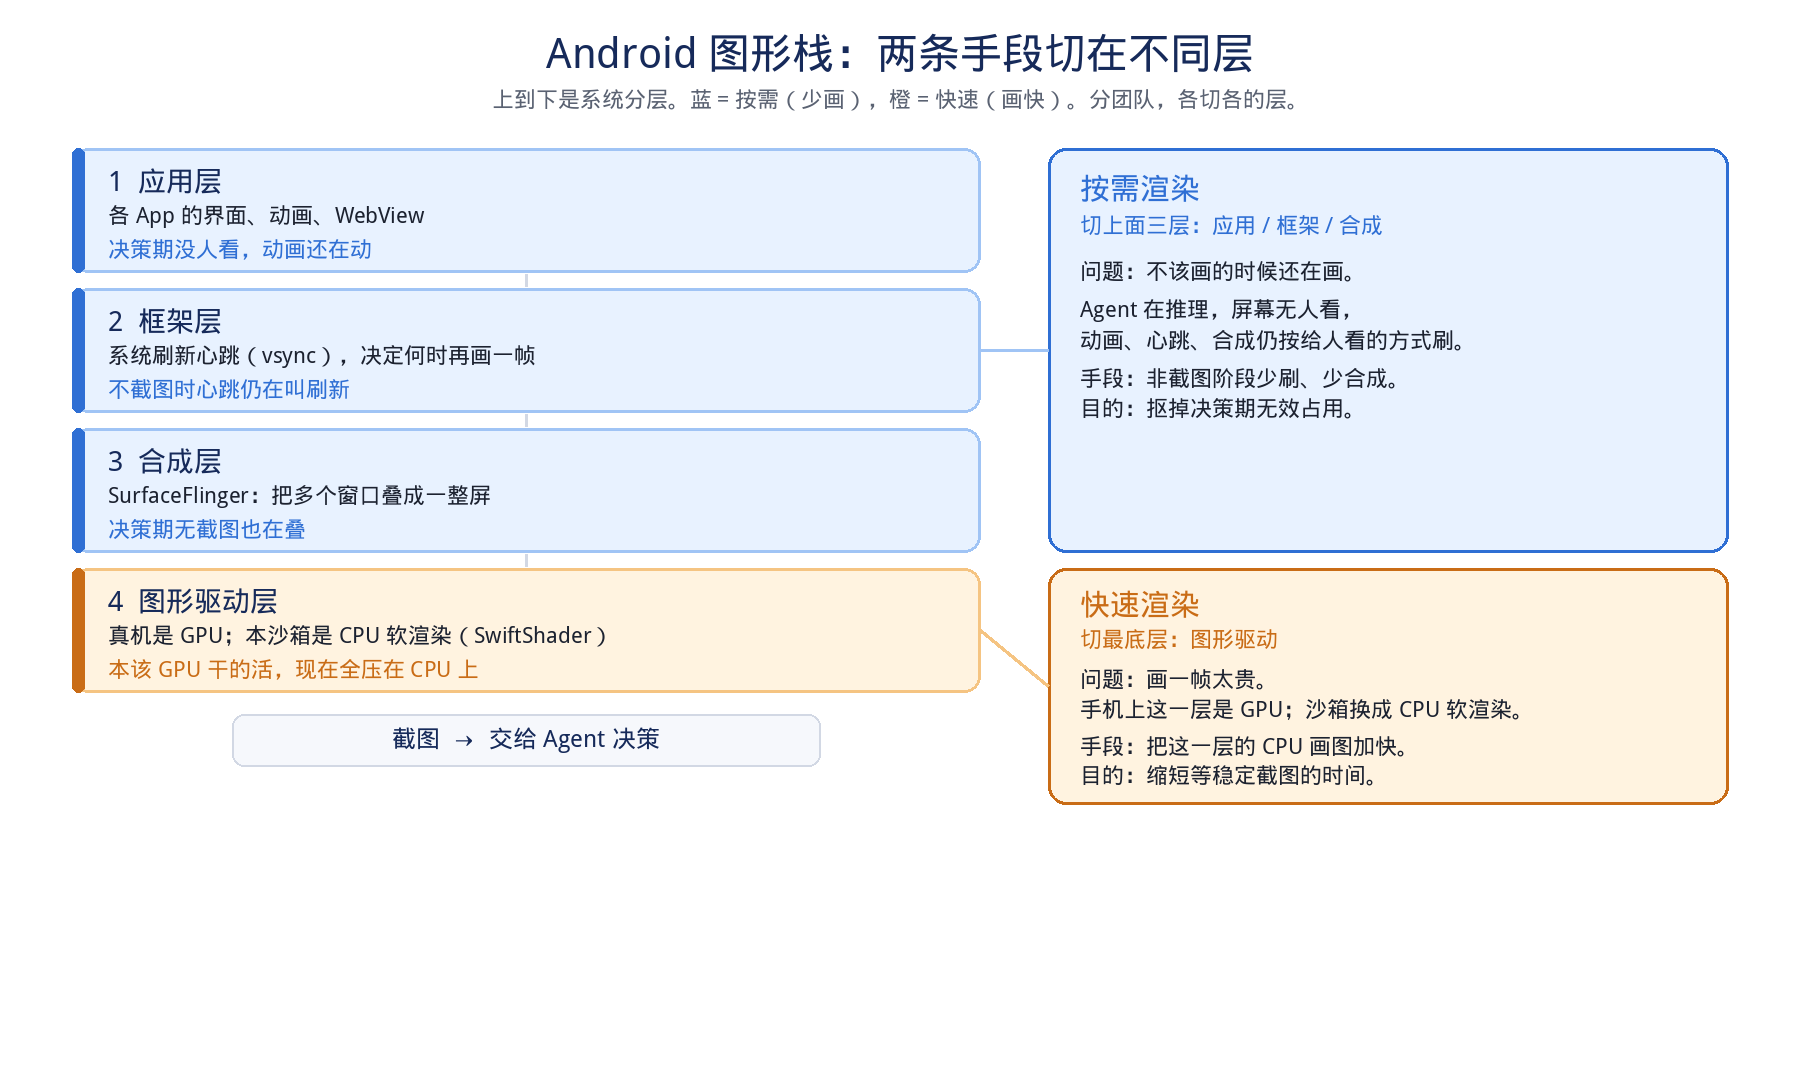
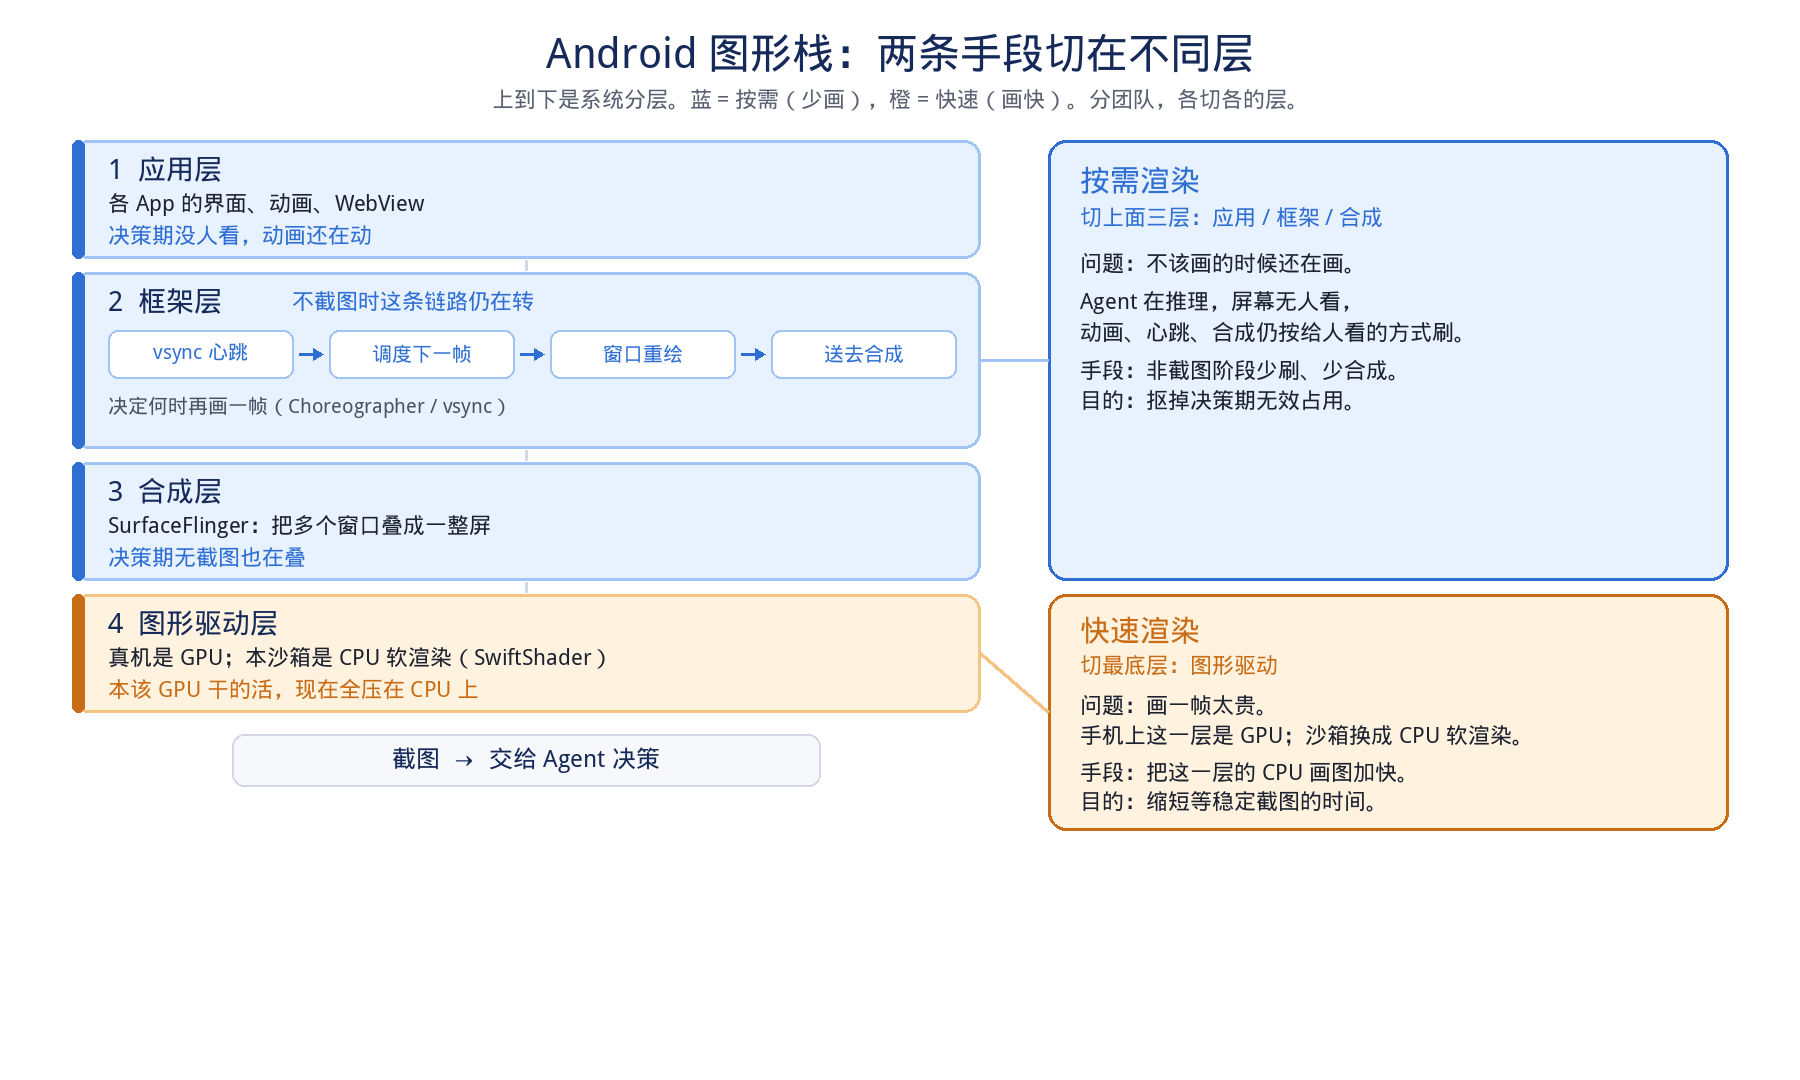
docs: add vsync flowchart inside the framework layer card
Autonomously-by: Cursor-Grok:4.6

Changed region(s): [[0.0311, 0.1222, 0.9644, 0.7944], [0.5289, 0.1222, 0.9644, 0.3972]]

diff --git a/docs/assets/gen_android_cpu_render_stack.py b/docs/assets/gen_android_cpu_render_stack.py
@@ -46,6 +46,28 @@ def draw_lines(draw, x, y, lines, f, fill, gap=10):
     return y
 
 
+def draw_h_flow(draw, x0, y0, x1, steps, pill_h, f, fill, bd, accent):
+    n = len(steps)
+    gap_arrow = 36
+    inner = x1 - x0
+    pill_w = (inner - gap_arrow * (n - 1)) / n
+    y1 = y0 + pill_h
+    for i, label in enumerate(steps):
+        px0 = x0 + i * (pill_w + gap_arrow)
+        px1 = px0 + pill_w
+        round_rect(draw, (px0, y0, px1, y1), 10, WHITE, bd, 2)
+        center_text(draw, (px0, y0, px1, y1), label, f, accent)
+        if i < n - 1:
+            ax0 = px1 + 6
+            ax1 = px0 + pill_w + gap_arrow - 6
+            midy = (y0 + y1) / 2
+            draw.line((ax0, midy, ax1 - 8, midy), fill=accent, width=3)
+            draw.polygon(
+                [(ax1, midy), (ax1 - 10, midy - 6), (ax1 - 10, midy + 6)],
+                fill=accent,
+            )
+
+
 def main():
     img = Image.new("RGB", (W, H), WHITE)
     d = ImageDraw.Draw(img)
@@ -79,8 +101,9 @@ def main():
         },
         {
             "title": "2  框架层",
-            "body": "系统刷新心跳（vsync），决定何时再画一帧",
-            "note": "不截图时心跳仍在叫刷新",
+            "body": "",
+            "note": "不截图时这条链路仍在转",
+            "flow": ["vsync 心跳", "调度下一帧", "窗口重绘", "送去合成"],
             "fill": BLUE_BG,
             "bd": BLUE_BD,
             "accent": BLUE,
@@ -106,19 +129,35 @@ def main():
         },
     ]
 
-    y = 148
-    gap = 16
-    h_layer = 124
+    y = 140
+    gap = 14
     boxes = []
     for layer in layers:
-        box = (sx0, y, sx1, y + h_layer)
+        h = 176 if layer.get("flow") else 118
+        box = (sx0, y, sx1, y + h)
         boxes.append(box)
         round_rect(d, box, 16, layer["fill"], layer["bd"], 3)
-        d.rounded_rectangle((sx0, y, sx0 + 12, y + h_layer), radius=6, fill=layer["accent"])
-        d.text((sx0 + 36, y + 16), layer["title"], font=layer_title_f, fill=NAVY)
-        d.text((sx0 + 36, y + 54), layer["body"], font=layer_body_f, fill=TEXT)
-        d.text((sx0 + 36, y + 88), layer["note"], font=layer_body_f, fill=layer["note_fill"])
-        y = y + h_layer + gap
+        d.rounded_rectangle((sx0, y, sx0 + 12, y + h), radius=6, fill=layer["accent"])
+        d.text((sx0 + 36, y + 12), layer["title"], font=layer_title_f, fill=NAVY)
+        if layer.get("flow"):
+            d.text((sx0 + 220, y + 16), layer["note"], font=layer_body_f, fill=layer["note_fill"])
+            draw_h_flow(
+                d,
+                sx0 + 36,
+                y + 58,
+                sx1 - 24,
+                layer["flow"],
+                48,
+                font(20),
+                WHITE,
+                layer["bd"],
+                layer["accent"],
+            )
+            d.text((sx0 + 36, y + 122), "决定何时再画一帧（Choreographer / vsync）", font=font(20), fill=MUTED)
+        else:
+            d.text((sx0 + 36, y + 50), layer["body"], font=layer_body_f, fill=TEXT)
+            d.text((sx0 + 36, y + 82), layer["note"], font=layer_body_f, fill=layer["note_fill"])
+        y = y + h + gap
 
     xmid = (sx0 + sx1) / 2
     for i in range(3):
